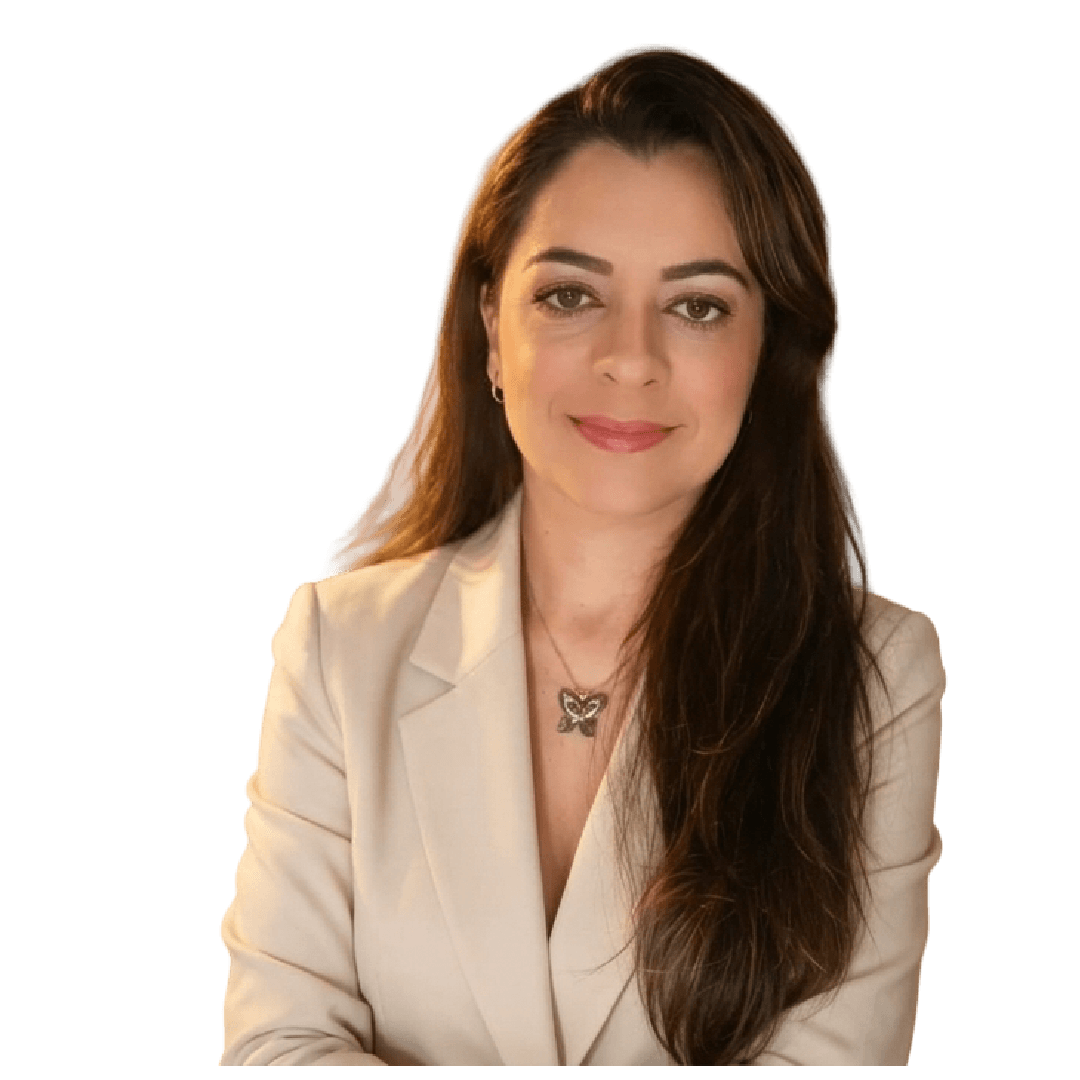
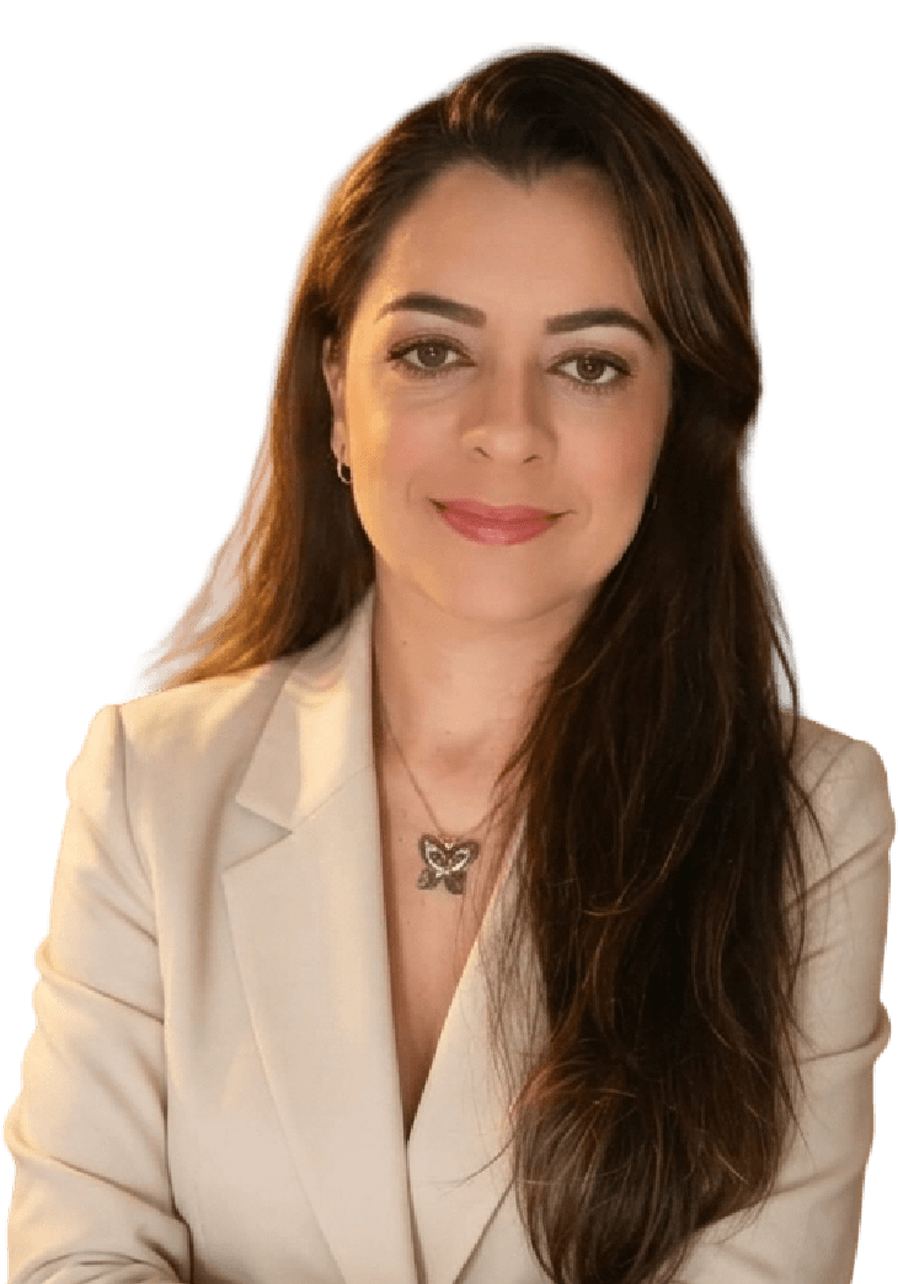
Atualiza estilos de layout e ajusta dimensões de elementos na página inicial

diff --git a/index.html b/index.html
@@ -297,7 +297,7 @@
 
             <div class="lg:col-span-5 relative">
               <div
-                class="relative min-h-[30rem] sm:min-h-[33rem] lg:min-h-[36rem] reveal-up delay-200"
+                class="relative min-h-[36rem] sm:min-h-[38rem] lg:min-h-[36rem] reveal-up delay-200"
               >
                 <div
                   class="absolute inset-0 bg-[radial-gradient(circle_at_24%_18%,_rgba(141,215,247,0.2),_transparent_24%),radial-gradient(circle_at_78%_20%,_rgba(255,104,200,0.12),_transparent_24%)]"
@@ -319,7 +319,7 @@
                   >
                 </div>
 
-                <div class="absolute inset-x-[2%] top-[10%] bottom-[9%]">
+                <div class="absolute inset-x-[2%] top-[6%] bottom-[36%] md:top-[10%] md:bottom-[9%]">
                   <div
                     class="absolute left-[7%] right-[18%] top-[4%] bottom-[18%] hidden md:block rounded-[3rem] border border-white/70 bg-[linear-gradient(180deg,rgba(255,255,255,0.82),rgba(255,255,255,0.24))] backdrop-blur-lg"
                   ></div>
